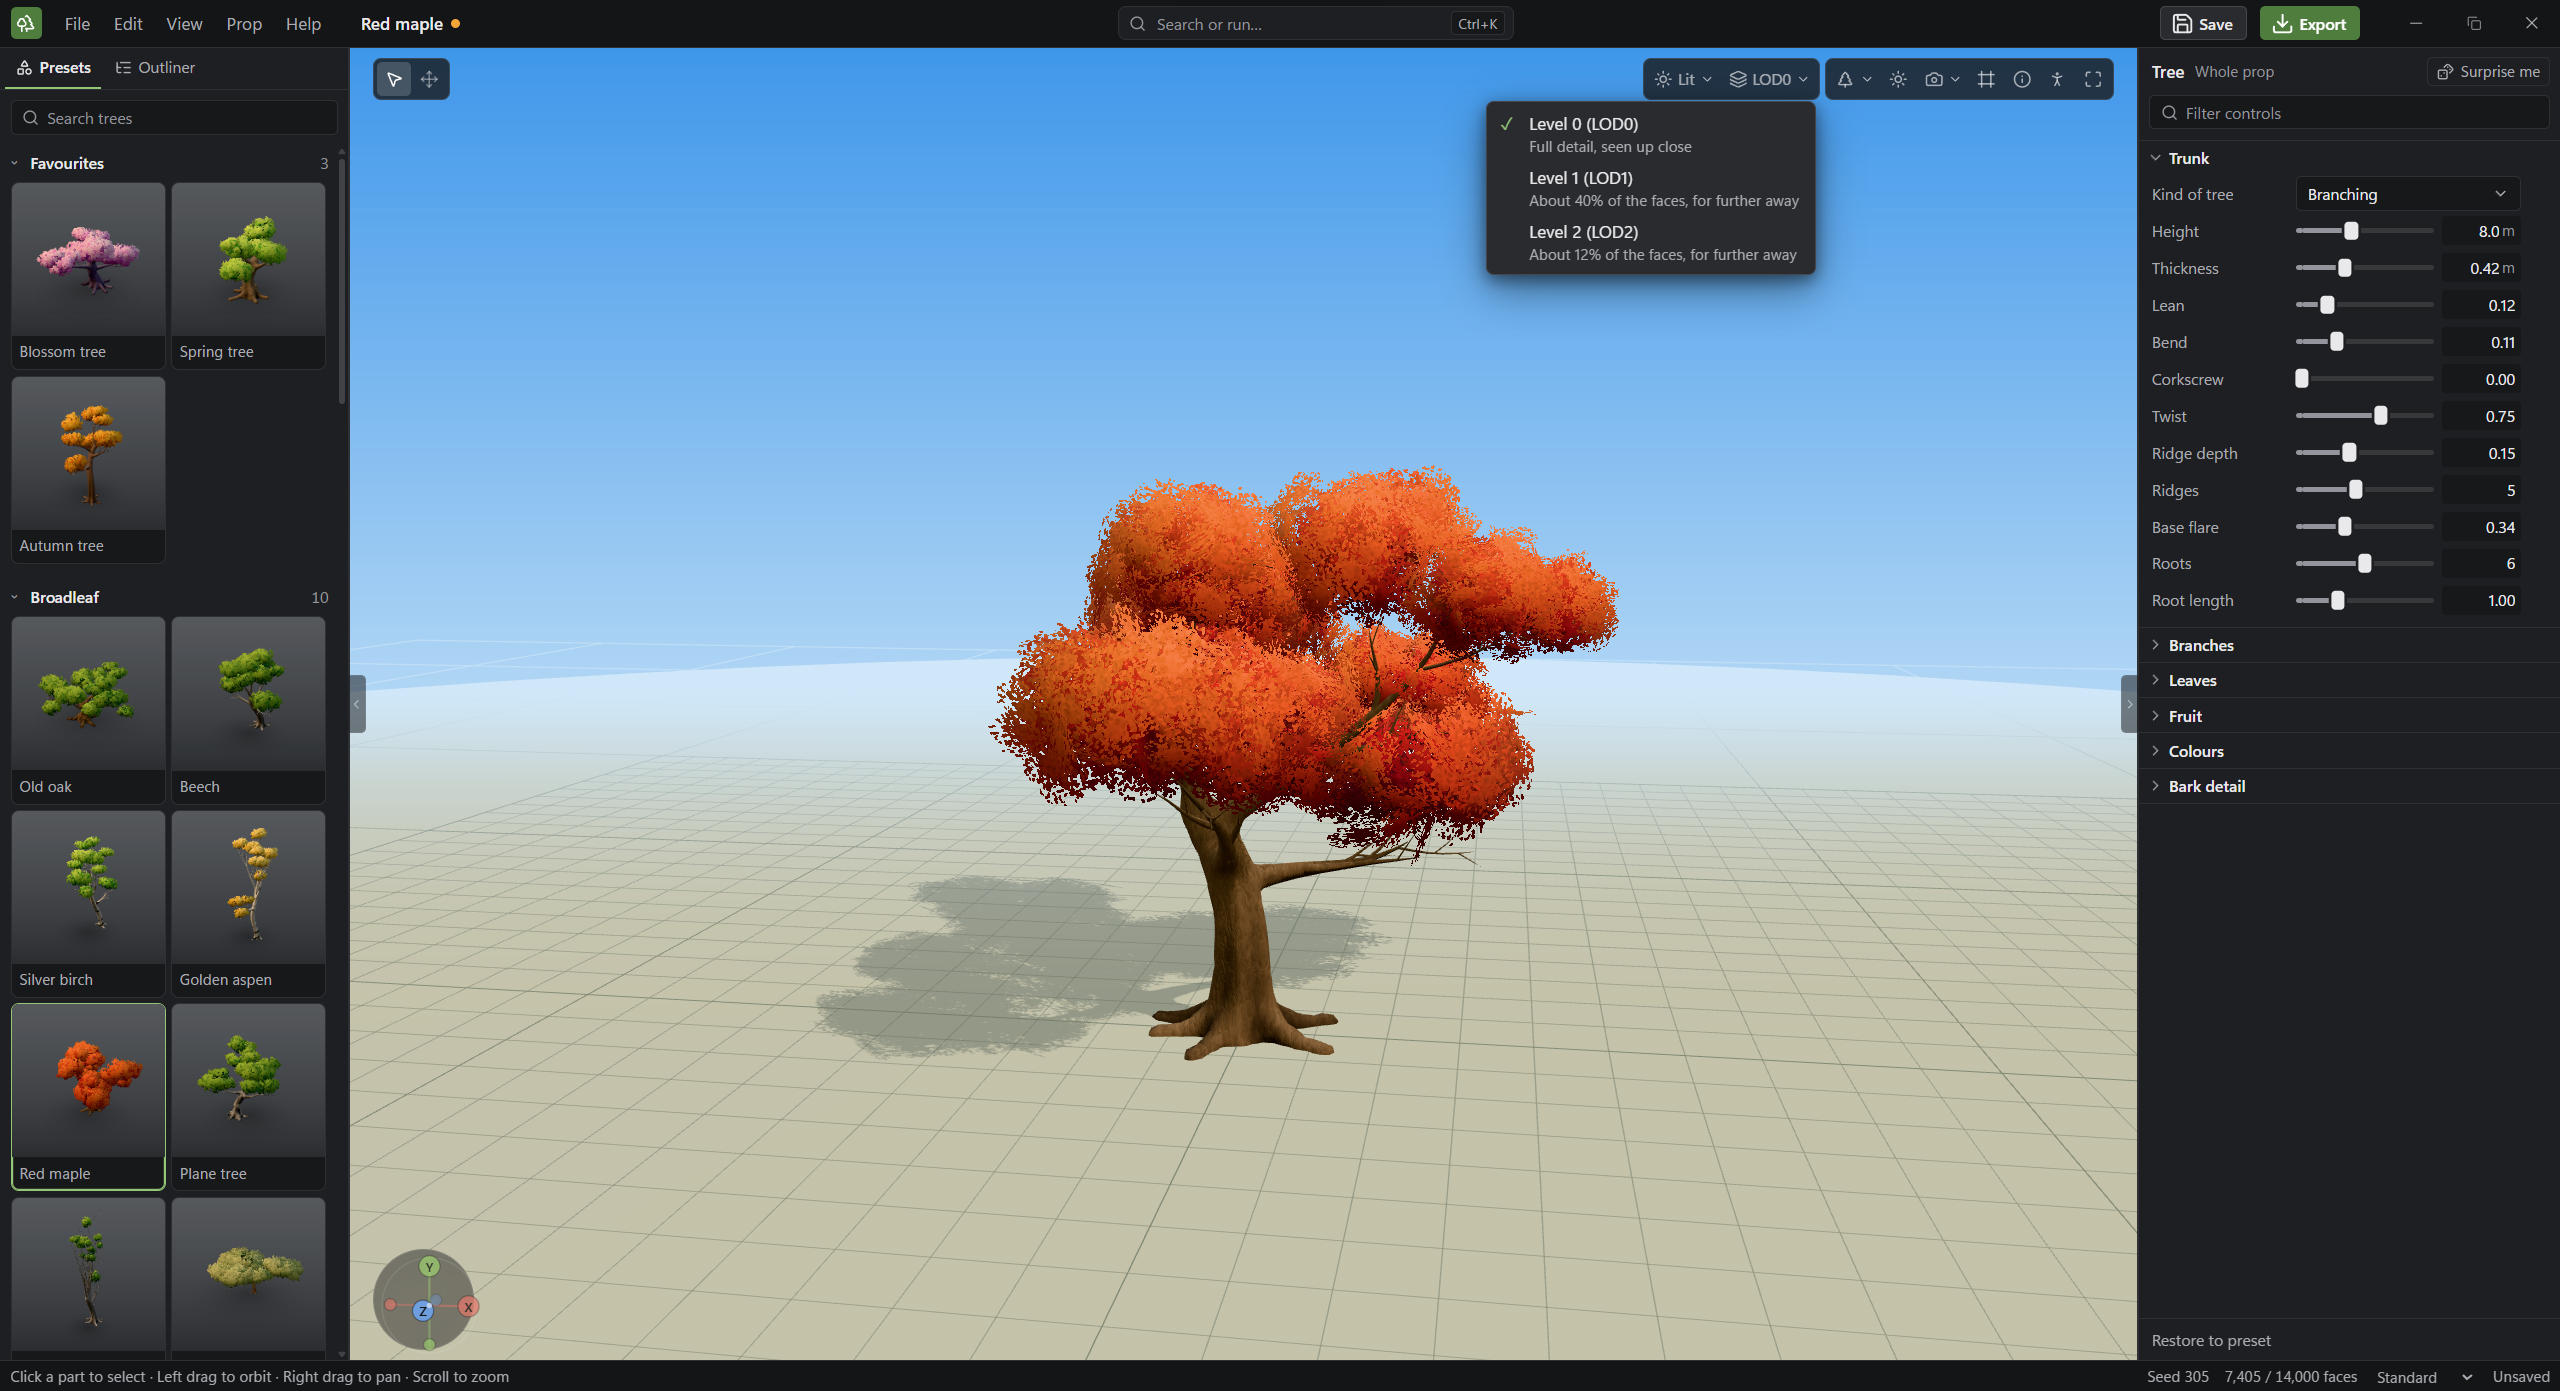
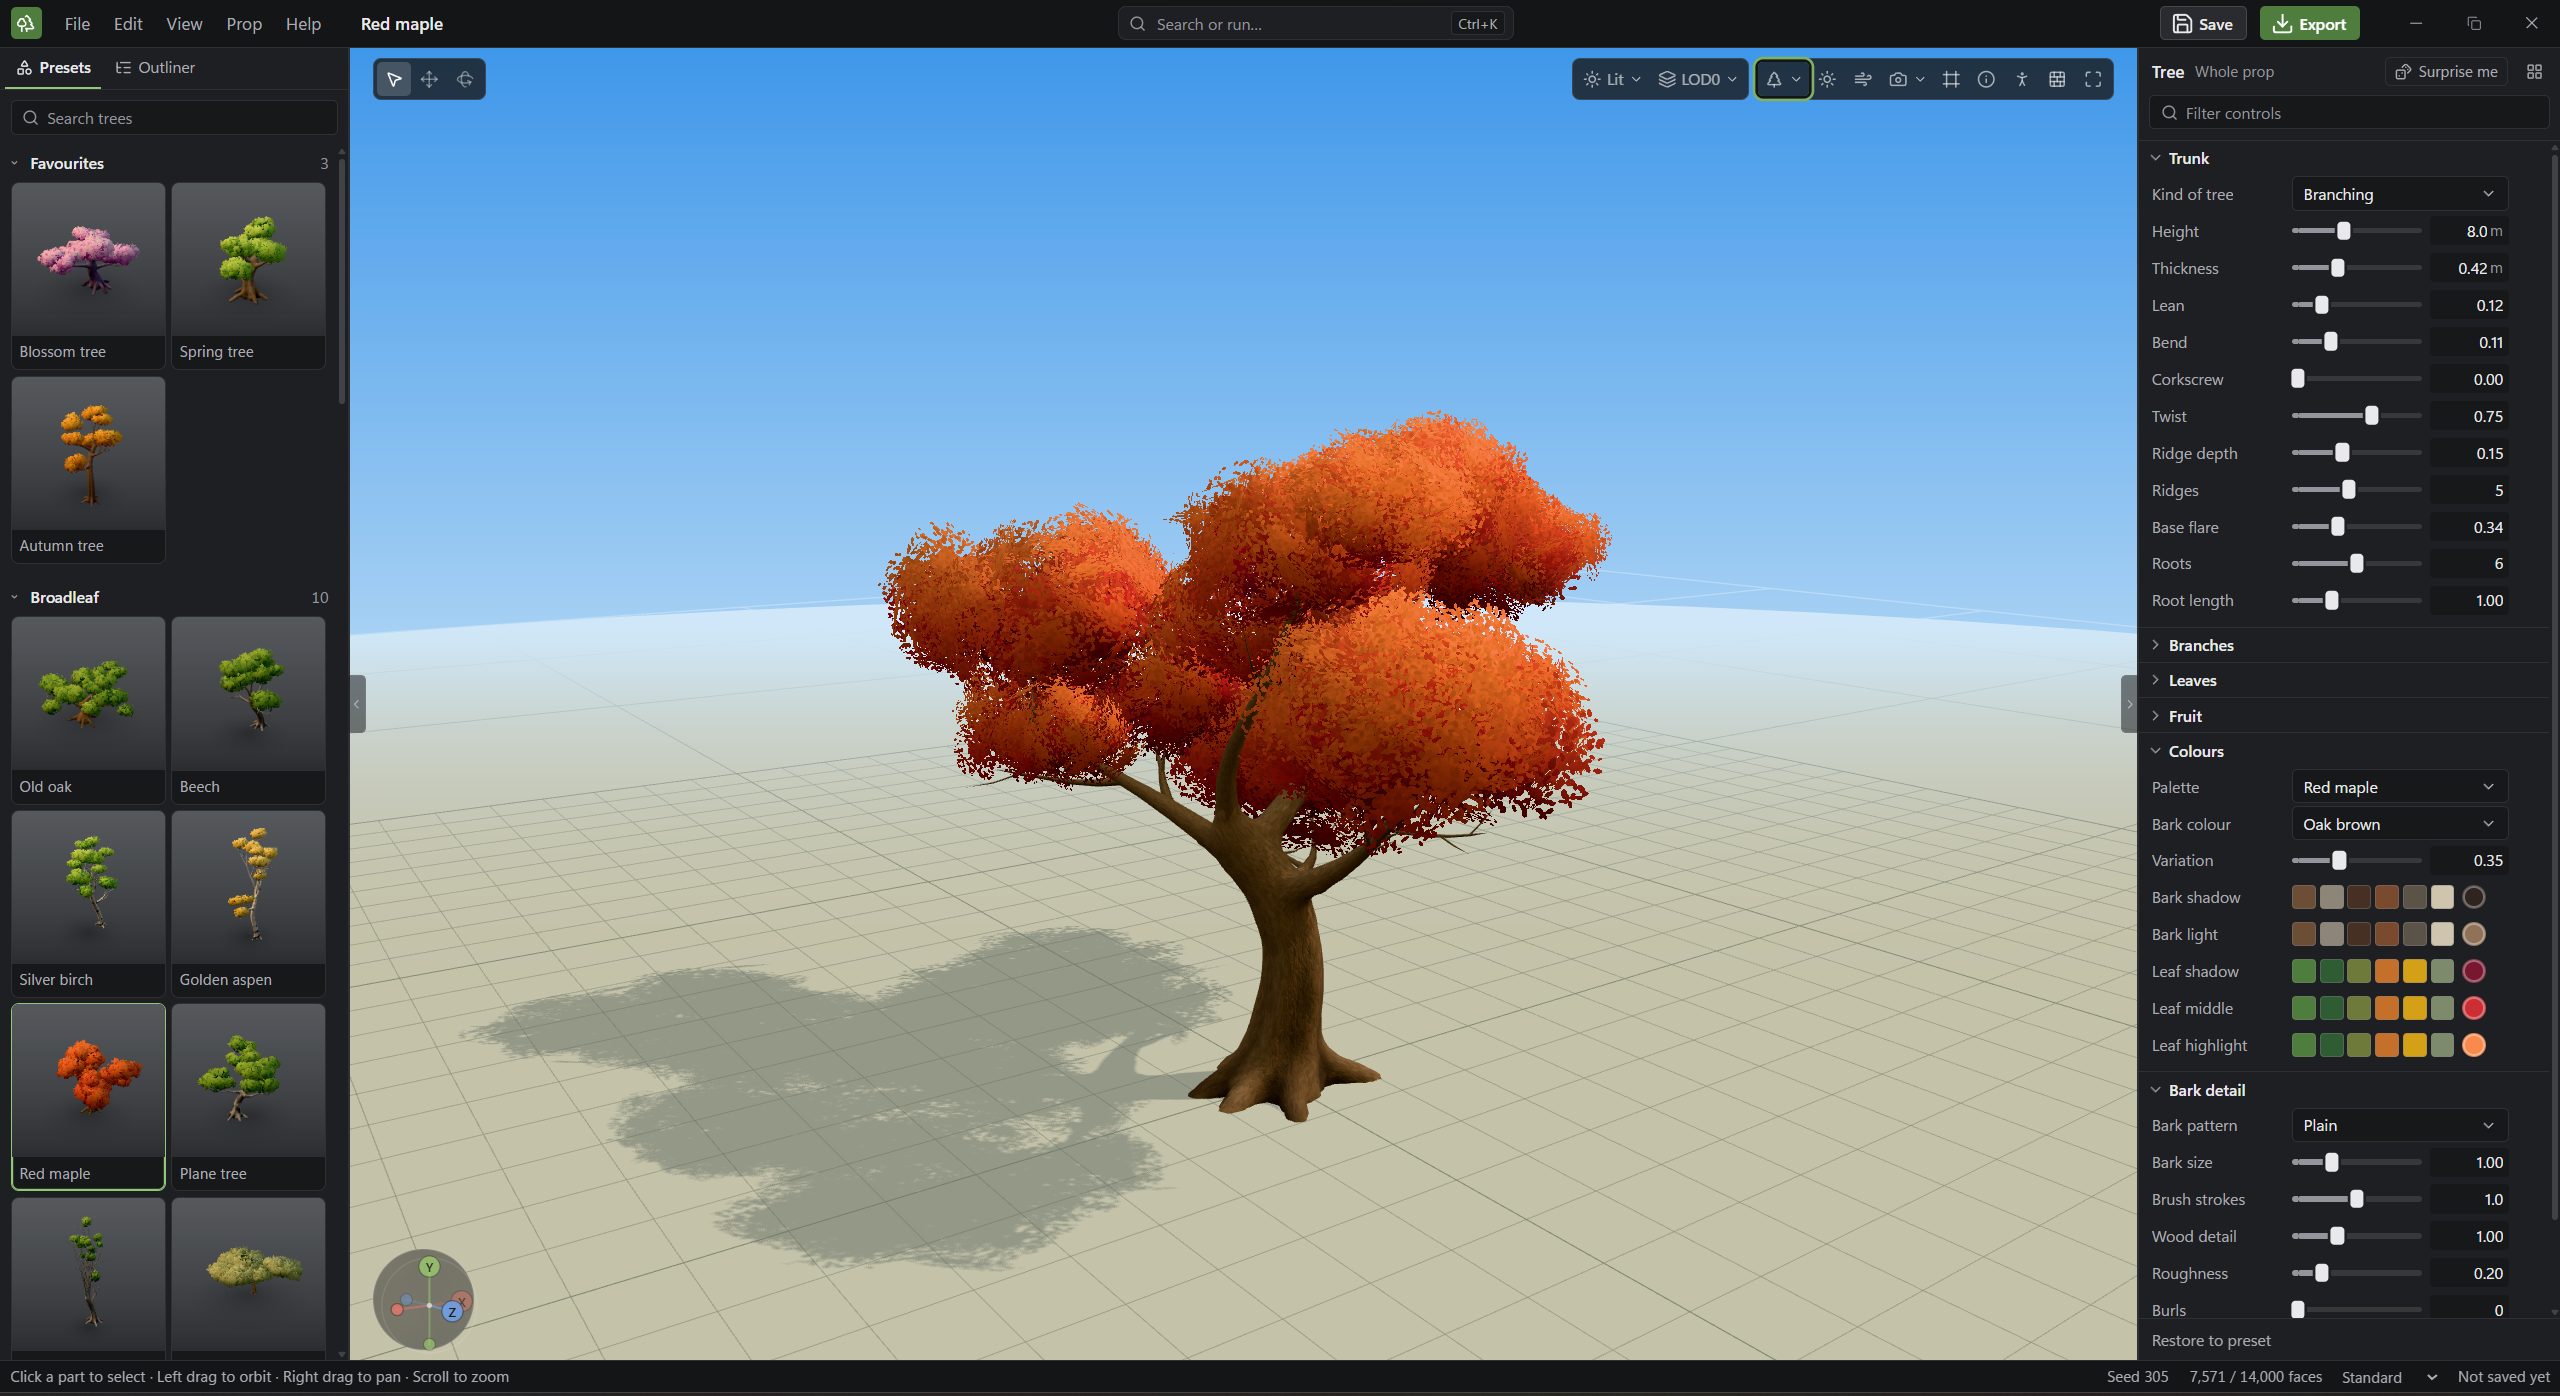
Show 0.3 in the README
New screenshots, a short clip of wind in the view, and this version's
features.

diff --git a/README.md b/README.md
@@ -9,7 +9,7 @@ Pick a tree, rock, bush, fern or patch of grass, shape it with plain sliders, an
 export it for your game engine. It's a focused desktop tool for props, not a
 replacement for Blender.
 
-![A red maple made in easy-props, standing in the Meadow demo scene with rocks, bushes and grass](docs/images/meadow.png)
+![A red maple open in easy-props, standing in the Meadow demo scene in front of a cliff, with rocks, bushes and grass](docs/images/meadow.png)
 
 **[Download for Windows or Mac](https://github.com/AHS12/easy-props/releases)** · [What's new](CHANGELOG.md)
 
@@ -17,17 +17,27 @@ replacement for Blender.
 
 - **Start from a preset:** broadleaf trees, palms, conifers, fantasy trees, bushes,
   ferns, grass and flowers, boulders, stones and cliffs.
+- **Find the one you want:** **Show me more** puts nine versions of your prop side by
+  side. Click one to use it, or tick several and export them all.
 - **Make it yours:** drag a slider or type a value, and the prop updates live. Click a
-  branch or a leaf clump to change just that part, and undo anything.
+  branch or a leaf clump to change just that part, move it, or turn a branch around its
+  base, and undo anything.
 - **See it in a real place:** stand your prop in the Meadow or Grove demo scene, with a
   person beside it for scale, to judge it before it goes in your game.
+- **See it move:** turn on **Wind** to watch your prop sway in the view, as the engine
+  kits will move it, from a calm day to a storm.
 - **Export for games:** each prop comes as GLB files with detail levels (LOD) and simple
-  collision shapes, checked against a face budget.
+  collision shapes, which you can see in the view first, checked against a face budget.
+  Over budget? **Make it fit** lowers the controls that cost the most, in one step you can
+  undo.
 - **Wind built in:** trees and plants carry wind data in their second UV set, slow sway
   and fast flutter, so they can move in your engine at almost no cost.
 - **Engine kits:** **Save kit…** in Export writes what your engine needs for that wind:
   ready-made shaders for Godot, and step-by-step material instructions for Unreal.
-- **Export many at once:** batch-export presets, saved props and random variations.
+- **Export many at once:** batch-export presets, saved props and random variations, with
+  all of Export's choices, into a folder of their own.
+
+![A red maple swaying in the view with Wind switched on, from the Wind panel at the top](docs/images/wind.gif)
 
 ![The editor, with presets on the left, a red maple in the middle and its controls on the right](docs/images/editor.png)
 
@@ -35,7 +45,7 @@ replacement for Blender.
 
 ## Using props in your engine
 
-![The Export dialog, listing the files for a red maple with their face counts](docs/images/export.png)
+![The Export dialog set up for Godot, listing the files for a red maple with their face counts](docs/images/export.png)
 
 | Target | How |
 |---|---|
@@ -75,8 +85,9 @@ Mac disk image (needs a Mac). Both go to `build/dist`. Run `make` to list every 
 
 ## Releasing
 
-Add the new version to [CHANGELOG.md](CHANGELOG.md), and set it in `wails.json` and in `APP_VERSION` in
-`frontend/src/core/export/export-preferences.ts`, then push. There are two ways to
+Add the new version to [CHANGELOG.md](CHANGELOG.md), and set it in `wails.json`, in `APP_VERSION` in
+`frontend/src/core/export/export-preferences.ts`, and in `INFO_PRODUCTVERSION` in
+`build/windows/installer/wails_tools.nsh`, then push. There are two ways to
 release, and both build the installers on GitHub and attach them to the release:
 
 - **Automatic:** publish a GitHub Release tagged `vX.Y.Z`.
